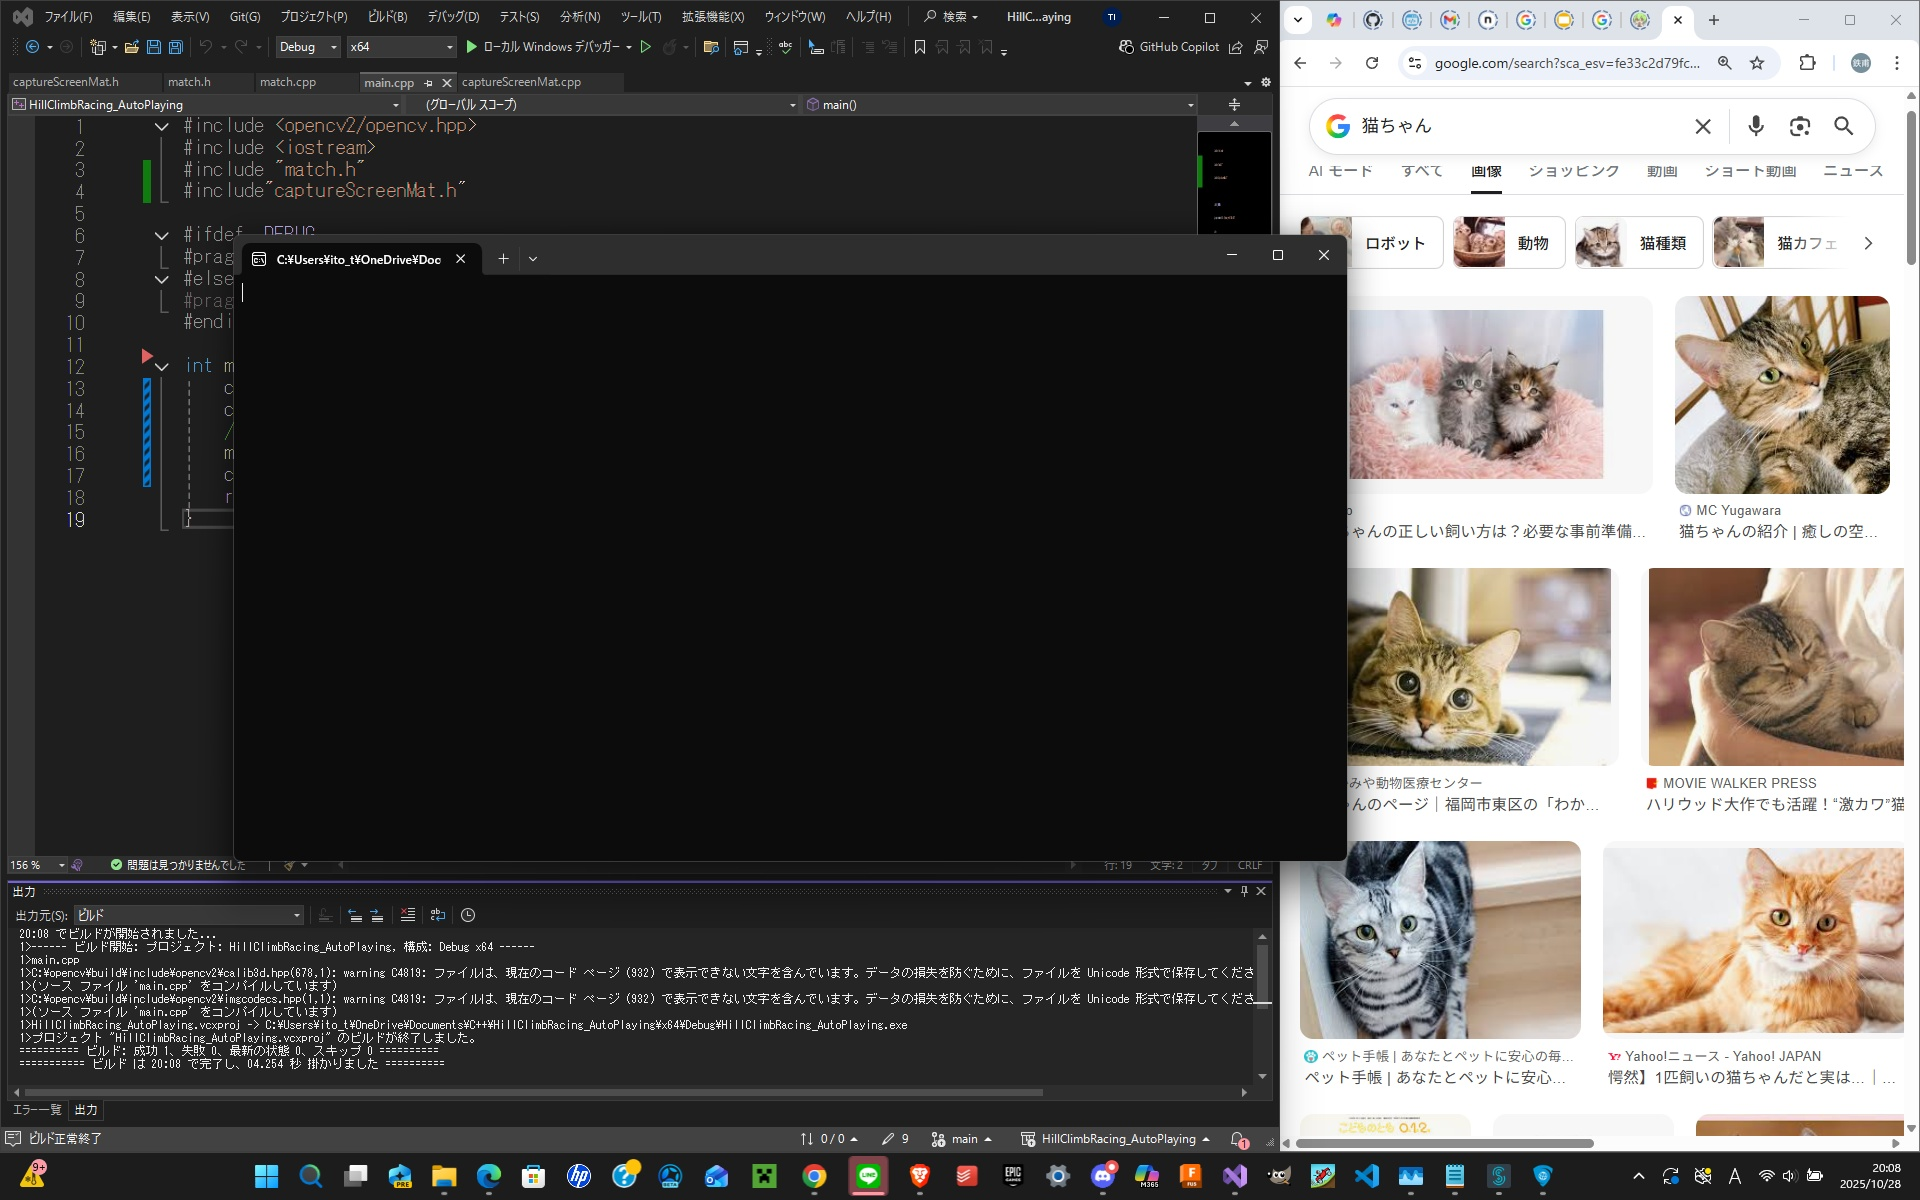
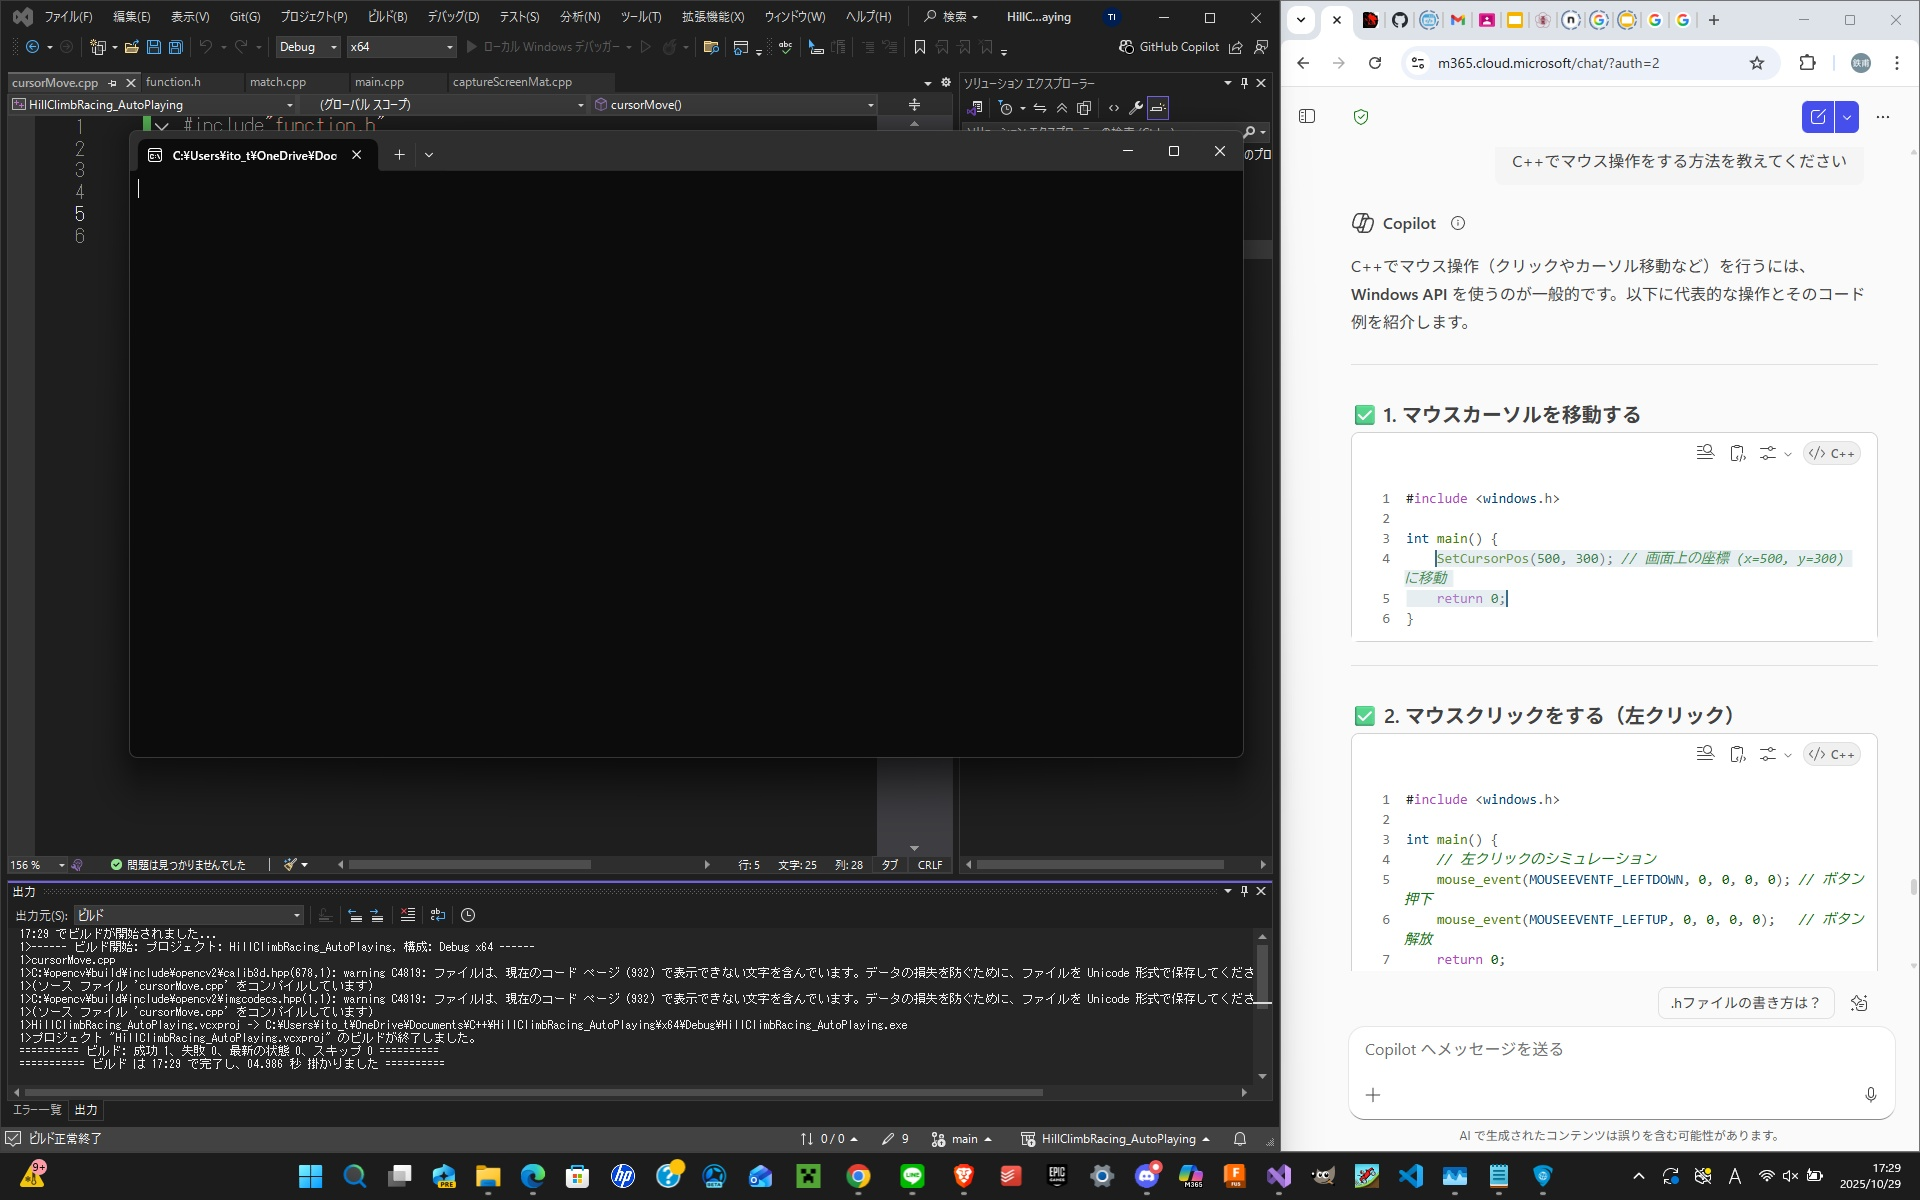
マウスホイールの操作を試験、関数の宣言を1つにまとめた

diff --git a/HillClimbRacing_AutoPlaying/match.cpp b/HillClimbRacing_AutoPlaying/match.cpp
@@ -2,7 +2,7 @@
 #include <opencv2/highgui/highgui.hpp>
 #include <opencv2/imgproc/imgproc.hpp>
 #include <iostream>
-#include"match.h"
+#include"function.h"
 
 /*
 #ifdef _DEBUG

diff --git a/HillClimbRacing_AutoPlaying/function.h b/HillClimbRacing_AutoPlaying/function.h
@@ -1,0 +1,6 @@
+#pragma once
+#include <opencv2/opencv.hpp>
+
+int match();
+cv::Mat captureScreenMat();
+void cursorMove();
